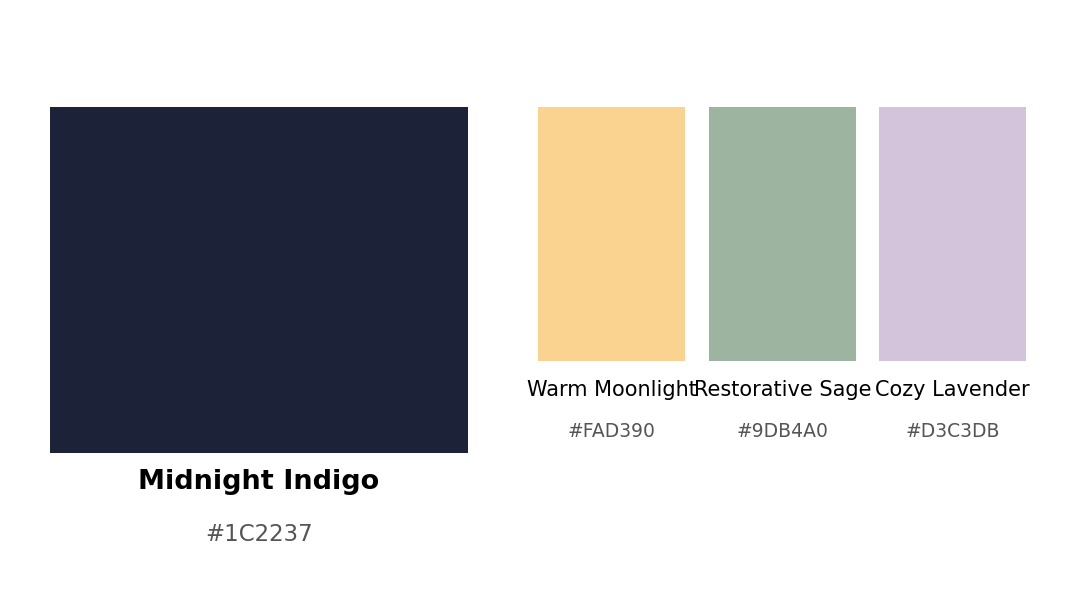
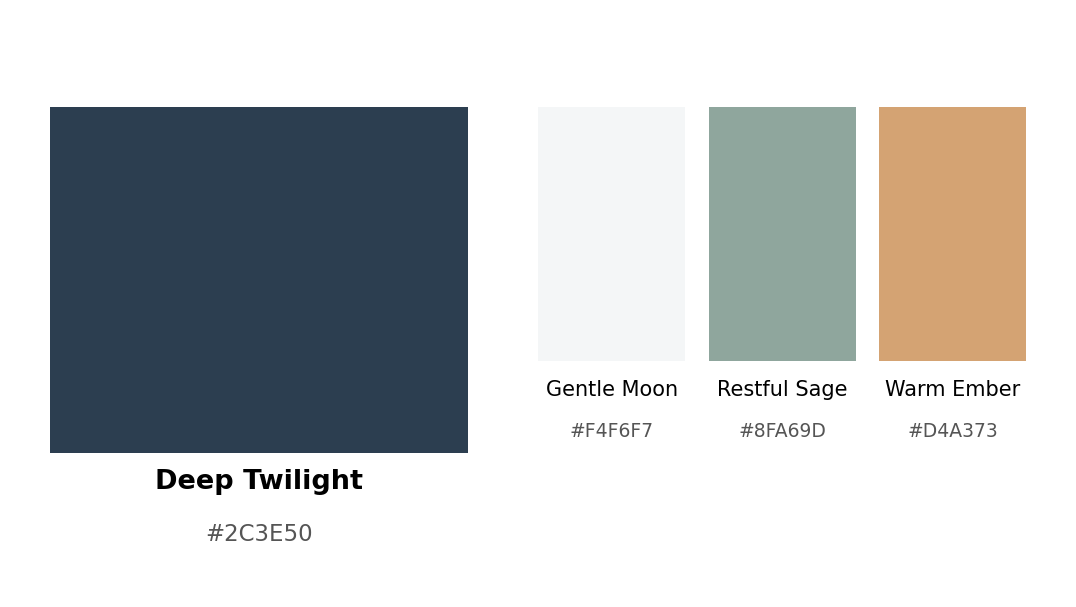
docs: 작업 로그 작성 및 팀원 프롬프트 기록 반영

diff --git a/visual.py b/visual.py
@@ -19,7 +19,7 @@ from contracts import ensure_dir
 # ── 개발용 안전장치 ─────────────────────────────────────
 # 로고는 호출할 때마다 과금된다. 프롬프트를 다듬는 동안에는
 # LOGO_COUNT를 1로 두고, 최종 확인 때만 2~3으로 올린다. (미션 요구사항 2~3장)
-LOGO_COUNT = 1          # 생성할 시안 수 (최종 제출 시 2 이상)
+LOGO_COUNT = 3          # 생성할 시안 수 (최종 제출 시 2 이상)
 LOGO_SIZE = "1024x1024"
 
 def render_palette(palette, out_dir):

diff --git a/WORKLOG.md b/WORKLOG.md
@@ -1,9 +1,7 @@
 # 작업 로그 — Project A : 브랜드 아이덴티티 생성기
 
-> 제출 체크리스트 항목: "작업 로그(프롬프트, 수정 이력)가 기록되어 있는가",
-> "최종 보고서에 파트별 담당자와 주요 의사결정이 정리되어 있는가"
->
-> 이 문서가 그대로 최종 보고서의 재료가 됩니다. 몰아서 쓰지 말고 그때그때 채우세요.
+대전 Codyssey · AI 활용 실습 Term Project · 6팀 (4인 1팀)
+GitHub: `A2-1`
 
 ---
 
@@ -11,125 +9,259 @@
 
 | 역할 | 담당자 | 산출 파일 | 담당 기능 |
 |---|---|---|---|
-| ① 통합 · 입력 (팀장) | 주시호 | `main.py` `contracts.py` `fixtures.py` `brief.json` | CLI, 브리프 검증, 전체 실행 구조, 결과 저장 |
-| ② 네이밍 · 카피 | 신재풍 | `naming.py` | 브랜드명 3~5개, 슬로건 3개 |
+| ① 통합 · 입력 (팀장) | 주시호 | `main.py` `contracts.py` `fixtures.py` `brief.json` | CLI 대화형 입력, 브리프 검증, 단계 격리 실행, `brand_result.json` 조립, 전체 통합 |
+| ② 네이밍 · 카피 | 신재풍 | `naming.py` | 브랜드명 후보 3~5개, 슬로건 3개 |
 | ③ 스토리 · 컬러 | 이채원 | `content.py` | 브랜드 스토리, 컬러 팔레트 추천 |
-| ④ 비주얼 | 김동호 | `visual.py` | 팔레트 시각화, AI 로고 시안 |
+| ④ 비주얼 | 김동호 | `visual.py` | 컬러 팔레트 시각화(matplotlib), AI 로고 시안 |
 
-**협업 방식:** 팀원이 각자 파일을 작성해 팀장에게 전달 → 팀장이 통합·테스트 후 GitHub에 커밋.
-GitHub 리포: `A2-1`
-
----
-
-## 2. 주요 의사결정
-
-| 날짜 | 결정 사항 | 근거 | 제기자 |
-|---|---|---|---|
-| 2026-08-22 | 브리프 컨셉을 "야간 근무자용 디카페인 음료"로 확정 | 업종을 좁게 잡아야 생성 결과가 구체적으로 나옴 (체크포인트 "결과가 너무 일반적이지 않고 구체적인가") | 팀 전체 |
-| 2026-08-22 | 모든 생성 함수는 실패 시 예외 대신 `None` 반환 | API 하나가 실패해도 전체가 죽지 않게 함. 과제 요구사항 "API 실패 시 다음 단계 계속 진행" 충족 | 팀장 |
-| 2026-08-22 | `generate_logos` / `generate_slogans` / `generate_story`에 `brand_name` 인자 추가 | 브랜드명은 브리프에 없고 `generate_naming`의 산출물임. 이름을 모르면 로고·슬로건이 브랜드와 무관해짐 | (팀원명) |
-| 2026-08-22 | 대표 브랜드명은 `naming[0]` 사용 | LLM에 추천 순서대로 정렬하도록 요청 → 첫 항목이 대표안 | 팀장 |
-| 2026-08-22 | 컬러 팔레트에 컬러명(`name`) 추가, `{"hex", "name"}` 구조로 변경 | 과제 예시 출력에 `#2E7D32 (Forest Green)` 형태로 컬러명이 표기됨 | (팀원명) |
-| 2026-08-22 | 브랜드명 키는 `name_ko`/`name_en`/`meaning` 유지 | 이미 `contracts.py`에 고정되어 있어 재명명의 실익이 없고 4개 파일 수정 비용만 발생 | 팀장 |
-| 2026-08-22 | `brand_result.json`에 `errors` 배열 기록 | 함수 반환 타입은 그대로 두고 `main.py`에서 실패 단계명만 수집 | (팀원명) |
-| 2026-08-22 | `fixtures.py`(더미 데이터) 도입 | 컬러 팔레트가 있어야 로고를 만들 수 있어 비주얼 담당이 대기하게 됨. 목 데이터로 4명 병렬 개발 | 팀장 |
+**협업 방식**
+팀원이 각자 파일을 작성해 팀장에게 전달 → 팀장이 규격 검증 · 통합 테스트 후 GitHub에 커밋.
+GitHub 커밋은 팀장 계정으로 단일화했으므로, 팀원별 기여 내역은 아래 4항(수령 · 통합 이력)과 5항(프롬프트 기록)으로 관리한다.
 
 ---
 
-## 3. 일자별 진행
+## 2. 사용 도구 및 환경
 
-### 2026-08-22 (강의 · 킥오프)
+| 항목 | 내용 |
+|---|---|
+| Python | 3.10+ |
+| 텍스트 LLM | Google Gemini (`gemini-3.1-flash-lite`) |
+| 이미지 생성 | OpenAI `gpt-image-1` (강사 지급 키) |
+| 주요 패키지 | `google-genai`, `openai`, `python-dotenv`, `matplotlib`, `requests` |
+| 개발 환경 | Windows · VSCode · PowerShell |
+| 키 관리 | `.env` (`.gitignore`로 제외), 제출용 견본은 `.env.example` |
 
-| 담당 | 한 일 | 결과 |
+각 팀원이 개발 보조로 사용한 LLM은 서로 달랐다(팀장·김동호 Claude, 신재풍·이채원 각자 사용 도구). 이로 인해 초기 구현 방향이 갈린 사례가 있었으며, 3-2항에 기록했다.
+
+---
+
+## 3. 주요 의사결정
+
+### 3-1. 설계 단계 (STEP 1)
+
+| 결정 사항 | 근거 | 제기자 |
 |---|---|---|
-| 팀장 | 브리프 확정, 함수 입출력 규격 합의, 스켈레톤 배포, GitHub 리포 생성 | STEP 1 완료 |
-| ② | | |
-| ③ | | |
-| ④ | | |
+| 브리프 컨셉을 "야간 근무자용 디카페인 음료"로 확정 | 업종을 좁게 잡아야 생성 결과가 구체적으로 나옴. 체크포인트 "결과가 너무 일반적이지 않고 구체적인가" 대응 | 팀 전체 |
+| 파일을 `main` / `naming` / `content` / `visual` 4개로 분리 | 강의자료 협업 데이터 흐름도 구조를 따름. 파일이 겹치지 않아 통합 시 충돌이 없음 | 팀 전체 |
+| **모든 생성 함수는 실패 시 예외 대신 `None` 반환** | API 하나가 실패해도 전체가 중단되지 않게 함. 과제 요구사항 "API 실패 시 다음 단계 계속 진행" 충족 | 팀장 |
+| `brand_result.json` 조립은 `main.py`에서만 수행 | 각 모듈은 자기 반환값까지만 책임. 결과 형식이 한 곳에서 관리됨 | 팀장 |
+| 파일 생성 함수는 저장 후 경로 문자열을 반환 | `visual.py`가 저장까지 맡고 `main.py`는 경로만 기록 | 팀장 |
+| LLM 호출을 `contracts.call_llm()` 공용 헬퍼로 일원화 | 세 모듈이 같은 코드를 중복 구현하지 않도록. API 키 관리와 JSON 파싱을 한 곳에 집중 | 팀장 |
+| `fixtures.py`(더미 데이터) 도입 | 컬러 팔레트가 있어야 로고를 만들 수 있어 비주얼 담당이 대기하게 됨. 목 데이터로 4명 병렬 개발 가능 | 팀장 |
 
-### (날짜)
+### 3-2. 규격 협의 및 수정
 
-| 담당 | 한 일 | 결과 |
+| 결정 사항 | 근거 | 제기자 |
 |---|---|---|
-| | | |
+| `generate_slogans` / `generate_story` / `generate_logos`에 `brand_name` 인자 추가 | 브랜드명은 브리프에 없고 `generate_naming`의 산출물임. 이름을 모르면 슬로건·로고가 브랜드와 무관해짐 | 김동호 |
+| 대표 브랜드명은 `naming[0]` 사용 | LLM에 추천 순서대로 정렬하도록 요청해 첫 항목을 대표안으로 삼음. 후보 순서에 의미를 부여 | 팀장 |
+| 브랜드명 반환 구조를 `{"name_ko", "name_en", "meaning"}`로 확정 | 이미지 생성 모델이 한글을 거의 못 그려 로고 프롬프트에 영문 표기가 필요. 보너스 과제(다국어 네이밍) 대비 | 신재풍 · 팀장 |
+| 컬러 팔레트를 `{"main": {"name","hex"}, "subs": [...]}` 구조로 변경 | 과제 예시 출력이 `#2E7D32 (Forest Green)` 형태로 컬러명을 함께 표기함 | 김동호 |
+| 컬러명은 영문으로 제한 | matplotlib 한글 폰트 미설정 시 팔레트 PNG에서 글자가 깨짐 | 이채원 · 김동호 |
+| 브랜드명 키를 `name_ko` 등으로 **유지**(재명명 반려) | 이미 `contracts.py`에 고정되어 있어 재명명의 실익이 없고 4개 파일 수정 비용만 발생 | 팀장 |
+| `brand_result.json`에 `errors` 배열 기록 | 함수 반환 타입은 그대로 두고 `main.py`에서 실패 단계명만 수집. 실패 이력을 결과물에 남김 | 김동호 |
+| 네이밍 실패 시에도 대체값으로 다음 단계 진행 | 뒤 단계를 통째로 건너뛰면 결과물이 지나치게 비게 됨. 팔레트·로고라도 생성되는 쪽을 택함 | 팀장 |
+
+### 3-3. 기술 선택
+
+| 결정 사항 | 근거 |
+|---|---|
+| 텍스트 LLM을 Gemini로 통일 | 무료 티어로 팀원 각자 키 발급이 가능. OpenAI 텍스트 키는 팀에 없음 |
+| 이미지 API는 팀장이 키를 보관하고 비주얼 담당에게만 전달 | 강사 지급 키가 1개뿐이며 실제 비용이 발생. 4명이 동시 사용 시 한도 소진 위험 |
+| `LOGO_COUNT` 상수로 로고 생성 수를 조절 | 프롬프트를 다듬는 동안 1장으로 줄여 호출 비용을 억제. 최종 확인 시에만 2~3장으로 상향 |
+| 모델을 `gemini-3.1-flash-lite`로 고정 | 무료 티어 일일 한도가 넉넉함. `-preview`가 아닌 정식 버전이라 갑작스러운 단종 위험이 낮음 |
 
 ---
 
 ## 4. 파일 수령 · 통합 이력
 
-> 팀원 커밋이 GitHub에 직접 남지 않는 방식이므로, 기여 내역을 여기에 기록합니다.
+| 담당 | 파일 | 단독 실행 | 통합 결과 | 조치 |
+|---|---|---|---|---|
+| 이채원 | `content.py` | 통과 | 스토리·컬러 정상 생성 | 규격 준수 확인 후 그대로 반영 |
+| 김동호 | `visual.py` | 통과 | 팔레트 PNG · 로고 PNG 정상 저장 | 규격 준수 확인 후 그대로 반영 |
+| 신재풍 | `naming.py` | — | **규격 불일치 2건 발견** | 팀장이 수정 후 반영 (아래 참조) |
 
-| 날짜 | 담당 | 받은 파일 | 단독 실행 | `--mock` 통합 | 커밋 | 비고 |
-|---|---|---|---|---|---|---|
-| | | | | | | |
+### `naming.py` 수정 내역 (팀장 조치)
+
+전달받은 버전은 팀 규격 배포 이전의 초기 설계를 기준으로 작성되어 있어 다음을 수정했다.
+
+| 항목 | 수정 전 | 수정 후 |
+|---|---|---|
+| 슬로건 시그니처 | `generate_slogans(brief)` | `generate_slogans(brief, brand_name)` |
+| LLM 호출 | OpenAI 직접 호출 (`OPENAI_API_KEY`) | `contracts.call_llm()` 사용 |
+| JSON 파싱 | `json.loads()` 직접 호출 | `contracts.extract_json()` 사용 |
+| 반환 키 | `{"name", "meaning"}` | `{"name_ko", "name_en", "meaning"}` |
+| **프롬프트 하드코딩** | `"회복", "밤", "리듬"` / `차분하고 다정한`을 문자열로 고정 | 브리프에서 값을 읽어오도록 변경 |
+
+마지막 항목이 가장 중요했다. 프롬프트에 첫 브리프의 값이 박혀 있어, 다른 브리프를 입력해도 같은 방향의 결과가 나오는 상태였다. 규칙 STEP 5의 "새로운 `brief.json`으로 처음부터 끝까지 실행" 검증이 무의미해지므로 수정했다.
+
+담당자 로그에 기록된 설계 의도(반환 구조, 검증 로직, 정렬 지시 등)는 그대로 유지했다.
 
 ---
 
 ## 5. 프롬프트 기록
 
-> 각 담당자가 실제로 사용한 프롬프트를 남깁니다. 여러 번 고쳤다면 최종본과 함께 무엇을 왜 바꿨는지 적으세요.
+각 함수의 프롬프트 **전문은 해당 소스 파일에 그대로 남아 있다.** 여기에는 프롬프트에 반영한 조건과 설계 의도를 기록한다.
 
-### `generate_naming` — 담당: (이름)
+### `generate_naming` — 신재풍
 
-```
-(프롬프트 전문)
-```
+**입력으로 전달한 브리프 항목**
+업종 / 타겟 / 키워드 / 톤앤매너 / 경쟁사 / 추가 요청사항
 
-**수정 이력**
-- v1 → v2: (무엇이 문제였고 어떻게 바꿨는지)
+**프롬프트에 명시한 조건**
+- 브랜드명 후보 3~5개
+- 키워드가 담은 브랜드 이미지 반영
+- 톤앤매너에 어울리는 어감
+- 기억하기 쉽고 발음하기 쉬울 것
+- 경쟁사와 차별화
+- 추가 요청사항 준수 (예: 3글자 이내, 영문 표기 용이)
+- 한글 표기(`name_ko`)와 영문 표기(`name_en`) 모두 생성
+- 이름의 의미와 작명 의도 설명
+- **가장 추천하는 순서대로 정렬** — `main.py`가 첫 항목을 대표안으로 사용하므로 순서에 의미가 있음
 
-### `generate_slogans` — 담당: (이름)
+**출력 형식 강제**
+설명이나 마크다운 없이 지정한 JSON 형식으로만 응답하도록 명시.
 
-```
-(프롬프트 전문)
-```
+**결과 검증**
+`extract_json()` 파싱 후, `name_ko`와 `name_en`이 모두 있는 항목만 통과시킨다. 유효 항목이 하나도 없으면 `None`을 반환한다.
 
-### `generate_story` — 담당: (이름)
+### `generate_slogans` — 신재풍
 
-```
-(프롬프트 전문)
-```
+**프롬프트에 추가로 전달한 정보**
+확정된 대표 브랜드명(한글명 / 영문명 / 이름의 의미)
 
-### `generate_palette` — 담당: (이름)
+**조건**
+- 슬로건 3개
+- 브리프의 톤앤매너를 문장 분위기에 반영
+- 브랜드명의 의미와 이어지는 문구
+- 타겟이 자신의 이야기로 느낄 수 있을 것
+- 짧고 기억하기 쉬운 문장
 
-```
-(프롬프트 전문)
-```
+브랜드명을 함께 전달한 이유는, 이름을 모른 채 작성한 슬로건은 어떤 브랜드에나 붙을 수 있는 일반적인 문구가 되기 때문이다.
 
-### `generate_logos` (이미지 프롬프트) — 담당: (이름)
+### `generate_story` — 이채원
 
-```
-(프롬프트 전문)
-```
+**프롬프트에 포함한 정보**
+브리프 6개 항목 + 브랜드 한글명 / 영문명 / 이름의 의미
+
+**조건**
+- 한국어, 300자 내외
+- 탄생 배경 / 철학 / 가치와 비전 포함
+- 브랜드명과 의미를 자연스럽게 반영
+- 브리프의 톤앤매너 유지
+- 제목이나 인사말 없이 본문만 출력
+
+**응답 처리**
+`.strip()` 후 불필요한 따옴표를 제거한다. 200자 미만 또는 400자 초과면 경고를 출력하되 결과 자체는 반환한다. 글자 수 조건을 지나치게 엄격히 적용해 정상 결과까지 실패 처리하지 않기 위한 판단이다.
+
+### `generate_palette` — 이채원
+
+**조건**
+- 메인 컬러 1개, 서브 컬러 2~3개
+- 각 컬러에 `name`(영문)과 `hex` 포함
+- HEX는 `#RRGGBB` 6자리 형식
+- 업종과 타겟, 브랜드 분위기 고려
+
+**결과 검증**
+최상위가 `dict`인지 → `main`·`subs` 키 존재 → 각 컬러의 `name`·`hex` 존재 → 컬러 개수(메인 1, 서브 2~3) → HEX 정규식 `^#[0-9A-Fa-f]{6}$` 순으로 검사한다.
+이 검증으로 `green`, `#FFF`, `rgb(255,255,255)` 같은 형식 오류를 걸러낸다.
+
+`generate_palette`는 브랜드명을 받지 않는다. 네이밍과 독립적으로 실행할 수 있게 하기 위한 구조다.
+
+### `generate_logos` (이미지 프롬프트) — 김동호
+
+**프롬프트 조립 재료 4가지**
+1. `brand_name["name_en"]` — 이미지 모델이 한글을 거의 못 그리므로 영문 표기를 사용
+2. `brand_name["meaning"]` — 시각적 컨셉의 힌트
+3. `palette["main"]`의 컬러명과 HEX — 컬러명을 함께 넣으면 색 재현이 더 정확함
+4. `brief["keywords"]`, `brief["tone"]`
+
+**시안별 컨셉 분리**
+세 장을 서로 다른 방향으로 생성한다.
+- 심볼형 — 문자 없이 추상 심볼만
+- 워드마크형 — 영문 브랜드명을 산세리프로
+- 결합형 — 심볼을 브랜드명 위에 배치
+
+**스타일 지시어**
+`minimal vector logo`, `flat design`, `plain white background`, `no photograph`, `no gradient mesh`, `no extra text`
+사진처럼 생성되는 것을 막고 로고다운 결과를 얻기 위한 지시다.
+
+**응답 처리**
+이미지 API 응답이 base64인지 URL인지에 따라 분기한다. base64면 디코딩하고, URL이면 `requests`로 다운로드(`timeout=60`)한 뒤 바이너리 모드(`"wb"`)로 저장한다.
+
+**에러 처리**
+장별로 `try/except`를 감싸 한 장이 실패해도 나머지는 저장하고 리스트로 반환한다. 전부 실패했을 때만 `None`을 반환한다.
 
 ---
 
 ## 6. 오류 및 해결 기록
 
-> 체크포인트 "에러 처리 상황 점검" 항목의 근거 자료가 됩니다.
+| # | 발생 위치 | 증상 | 원인 | 해결 |
+|---|---|---|---|---|
+| 1 | 모듈 단독 실행 | `GEMINI_API_KEY가 없습니다` | `load_dotenv()`가 `main.py`에만 있어 `python content.py` 실행 시 `.env`를 읽지 않음 | `contracts.py` 최상단으로 이동. 이 파일을 import하는 모든 모듈이 `.env`를 읽게 됨 |
+| 2 | `call_llm()` | `cannot import name 'genai' from 'google'` | `google-genai` 패키지 미설치 | `pip install -r requirements.txt` |
+| 3 | `load_brief()` | `PermissionError: [Errno 13]` | 브리프 경로에 폴더(`.`)를 입력해 폴더를 파일처럼 열려 함 | `os.path.isdir()` 검사와 `JSONDecodeError` 처리를 추가해 안내 메시지 후 정상 종료 |
+| 4 | `naming.py` | `generate_slogans() takes 1 positional argument but 2 were given` | 규격 배포 이전 버전으로 구현되어 시그니처가 불일치 | 4항의 수정 내역대로 통합 수정 |
+| 5 | `naming.py` 프롬프트 | 다른 브리프를 넣어도 같은 방향의 결과가 나옴 | 브리프 값이 프롬프트에 문자열로 하드코딩됨 | 브리프에서 값을 읽어오도록 변경. `brief_test.json`으로 검증 |
+| 6 | `call_llm()` | `429 RESOURCE_EXHAUSTED` (`limit: 20`) | 사용 모델의 무료 티어 일일 요청 한도(20회) 소진 | 일일 한도가 넉넉한 모델로 변경. 이후 흐름 확인은 `--mock` 모드로 대체해 호출 수 절감 |
+| 7 | `call_llm()` | `404 NOT_FOUND ... no longer available to new users` | 지정한 모델이 신규 사용자에게 더 이상 제공되지 않음 | `client.models.list()`로 사용 가능 모델을 직접 조회한 뒤 `gemini-3.1-flash-lite`로 확정 |
 
-| 발생 위치 | 증상 | 원인 | 해결 방법 |
-|---|---|---|---|
-| | | | |
+### 에러 처리 설계가 실제로 검증된 사례
 
-**미리 예상되는 항목 (겪으면 위 표에 옮겨 적을 것)**
-- LLM 응답이 코드펜스(```)에 감싸여 와서 `json.loads` 실패 → `contracts.extract_json()`으로 처리
-- 컬러 팔레트 PNG에서 한글 라벨이 □□□로 깨짐 → 라벨을 영문 컬러명 + HEX로 표기
-- 이미지 API 호출 실패 시 로고 3장 중 일부만 생성 → 장별 `try/except`로 부분 성공 허용
+**6번(429) 발생 시** — 네이밍·슬로건·스토리 3단계가 정상 완료된 뒤 컬러 팔레트 단계에서 한도 초과가 발생했다. 프로그램은 중단되지 않았고, 로고 단계는 "컬러 팔레트 없음"으로 건너뛴 뒤 `brand_result.json`이 정상 저장되었다.
+
+**7번(404) 발생 시** — 5개 단계가 **전부** 실패했음에도 프로그램이 종료되지 않고 `errors` 배열 5건과 함께 결과 파일을 생성했다.
+
+두 사례 모두 의도적으로 만든 상황이 아니라 실제 개발 중 발생한 것으로, 과제 요구사항 "API 호출 실패 시 에러 메시지를 출력하고 다음 단계를 계속 진행한다"가 실동작으로 검증된 결과다.
+
+김동호 담당자는 이와 별개로 `.env`의 이미지 API 키를 의도적으로 훼손해 401 오류를 유발하는 방식으로 장별 `try/except` 동작을 사전 검증했다.
 
 ---
 
-## 7. 최종 산출물 점검
+## 7. 전체 파이프라인 검증 (규칙 STEP 5)
+
+브리프를 교체해도 결과가 브리프를 따라 달라지는지 확인하기 위해, 성격이 상반된 두 번째 브리프로 전체 실행을 수행했다.
+
+| | `brief.json` | `brief_test.json` |
+|---|---|---|
+| 업종 | 야간 근무자용 디카페인 음료 | 제주 로컬 수제 맥주 브루어리 |
+| 키워드 | 회복 · 밤 · 리듬 | 바다 · 여유 · 발효 |
+| 톤앤매너 | 차분하고 다정한 | 자유롭고 유쾌한 |
+| 생성된 브랜드명 | 온율 · 안밤 · 토닥 · 결 | 서피 · 숨비 · 보글 · 까망 |
+| 생성된 컬러 메인 | Midnight Indigo 계열 | (실행 결과 참조) |
+
+제주 브리프에서는 해녀의 숨비소리, 현무암, 파도 등 브리프에만 존재하는 소재가 반영되었다. 6항 5번의 하드코딩 문제가 해소되었음을 확인한 검증이다.
+
+---
+
+## 8. 최종 산출물 점검
 
 **제출 전 팀 전체가 함께 확인**
 
 - [ ] `output/`에 `brand_result.json`, `color_palette.png`, `logo_01~02.png`가 모두 존재
 - [ ] `brief.json`이 팀이 합의한 브랜드 아이디어를 반영
-- [ ] `brief_test.json`(제주 수제 맥주)으로 처음부터 끝까지 실행 성공 — 결과가 첫 브리프와 확연히 다른지 확인
-- [ ] API 키가 결과물·코드·커밋 히스토리에 섞이지 않음 (`.env`가 리포에 없는지 확인)
+- [ ] `brief_test.json`으로 처음부터 끝까지 실행 성공 (7항)
+- [ ] `LOGO_COUNT`가 2 이상으로 설정되어 있는지 확인
+- [ ] 브랜드 스토리 글자 수가 300자 내외 범위인지 확인
+- [ ] API 키가 결과물 · 코드 · 커밋 히스토리에 섞이지 않음 (`.env`가 리포에 없는지 확인)
+- [ ] `.env.example`의 모델명이 실제 사용 모델과 일치
 - [ ] 4명 모두 전체 파이프라인 흐름을 설명할 수 있음
-- [ ] 이 작업 로그의 빈칸이 모두 채워짐
+- [ ] 생성된 브랜드명의 상표 중복 여부는 별도 확인이 필요함을 인지
 
-**보너스 과제 (선택)**
+**보너스 과제**
+- [x] 한글 · 영문 네이밍 동시 생성 (`name_ko` / `name_en`)
 - [ ] 경쟁사 분석 기반 차별화 포인트 제안
-- [ ] 한글 · 영문 네이밍 동시 생성 (`name_en` 필드로 이미 구조는 준비됨)
+
+---
+
+## 9. 작업을 통해 확인한 점
+
+**LLM의 비정형 응답을 프로그램이 쓸 수 있는 형태로 만드는 과정이 실제 작업의 상당 부분을 차지했다.** 프롬프트를 잘 쓰는 것만으로는 부족했고, 코드펜스 제거, JSON 구조 검증, HEX 형식 정규식 검사 같은 방어 로직이 필요했다. 특히 컬러 팔레트는 `rgb()` 표기나 3자리 축약형이 섞여 들어올 수 있어 검증 없이는 이미지 생성 단계가 깨진다.
+
+**"입력 → 처리 → 출력 규격을 먼저 맞춘다"는 규칙의 효과를 체감했다.** 파일을 나누기만 하고 규격을 정하지 않았다면 통합 시점에 네 명의 코드를 모두 고쳐야 했을 것이다. 실제로 규격이 어긋난 한 건(`naming.py`)에서 `TypeError`가 발생했고, 이는 규격이 없었다면 모든 파일에서 일어났을 문제였다.
+
+**의존 관계가 있는 작업을 병렬화하는 방법을 배웠다.** 로고 생성은 컬러 팔레트를, 슬로건은 브랜드명을 필요로 한다. 더미 데이터(`fixtures.py`)를 먼저 만들어두었기에 네 명이 서로를 기다리지 않고 동시에 개발할 수 있었다.
+
+**API는 개발 중에 조건이 바뀔 수 있다는 점을 확인했다.** 모델 단종(404)과 무료 한도 소진(429)을 실제로 겪었고, 두 경우 모두 코드가 아니라 외부 환경의 변화였다. 사용 가능한 모델을 코드로 조회해 확인하는 방법과, 개발 중 API 호출 수를 줄이는 목(mock) 모드의 필요성을 이해했다.
+
+**에러 처리를 "실패해도 계속 진행"으로 설계한 것이 실제로 유효했다.** 개발 과정에서 예기치 않은 실패가 여러 번 발생했지만 프로그램이 한 번도 중단되지 않았고, 매번 어디까지 진행되었는지 확인할 수 있었다. 이는 제출 요건 충족을 넘어 개발 자체를 수월하게 만든 선택이었다.
